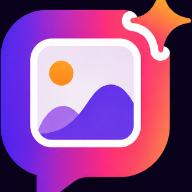
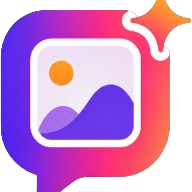
Atualiza imagens da marca

diff --git a/postara-backend/public/index.html b/postara-backend/public/index.html
@@ -8,7 +8,7 @@
     <meta name="description" content="Postara transforma produto em post com texto, imagem, histórico e publicação em redes sociais." />
     <meta property="og:title" content="Postara" />
     <meta property="og:description" content="Transforme produto em post." />
-    <meta property="og:image" content="./branding/brand-cover.png" />
+    <meta property="og:image" content="./branding/brand-icon.png" />
     <link rel="icon" type="image/png" sizes="16x16" href="./branding/favicon-16x16.png" />
     <link rel="icon" type="image/png" sizes="32x32" href="./branding/favicon-32x32.png" />
     <link rel="shortcut icon" href="./branding/favicon-32x32.png" />
@@ -33,7 +33,7 @@
     <div class="app-splash" id="app-splash" aria-hidden="true">
         <img
             class="app-splash-logo"
-            src="./branding/brand-cover.png"
+            src="./branding/brand-icon.png"
             alt="Logo do Postara"
         />
     </div>
